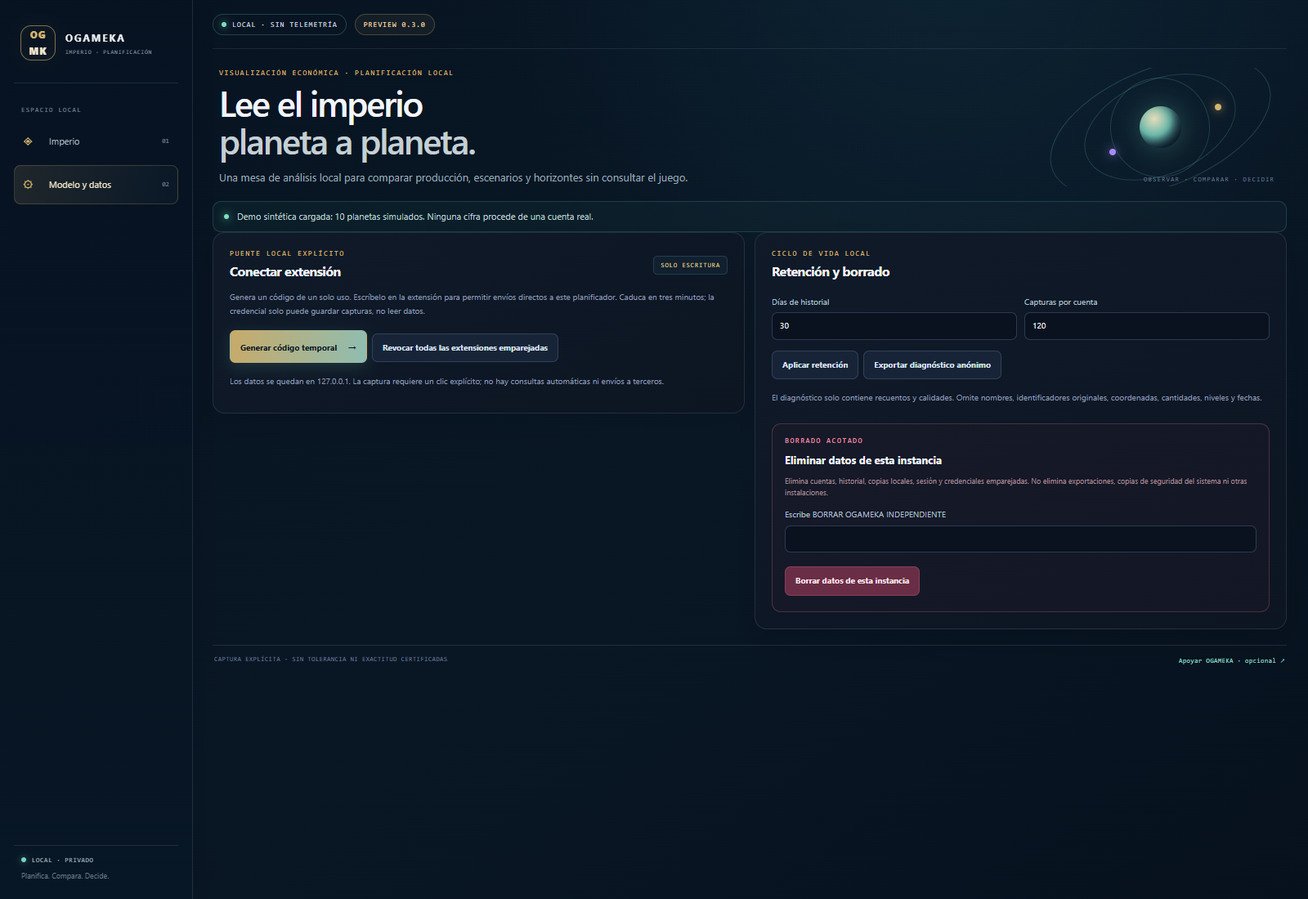
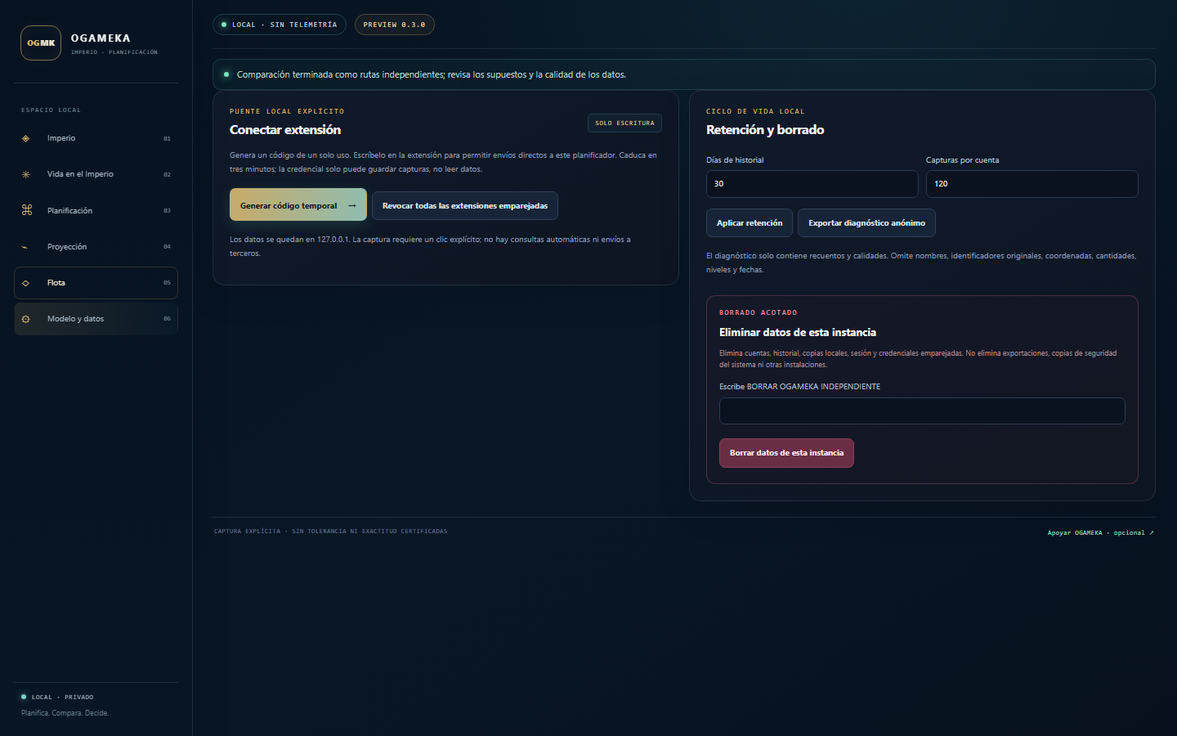
Restore TANSEI navigation and planning views

diff --git a/public/app.js b/public/app.js
@@ -34,6 +34,47 @@ function renderBodies(){
     details.textContent=facts.join(' · ')||'Sin ajustes observados';row.append(details);rows.append(row);
   }
 }
+function renderLifeforms(){
+  const rows=$('lifeforms-body');if(!rows)return;rows.replaceChildren();let count=0;
+  for(const body of selected()?.latest.bodies||[]){
+    const buildings=body.lifeformBuildings||{},research=body.lifeformResearch||{};
+    const entries=[['Edificios',buildings],['Tecnologías',research]];
+    if(!Object.keys(buildings).length&&!Object.keys(research).length)continue;count++;
+    const row=document.createElement('tr'),name=document.createElement('td'),kind=document.createElement('td');
+    name.textContent=body.name||body.id;kind.textContent=body.kind==='moon'?'Luna':'Planeta';row.append(name,kind);
+    for(const [,map]of entries){const cell=document.createElement('td'),list=document.createElement('div');list.className='level-chips';
+      for(const [id,fact]of Object.entries(map)){const chip=document.createElement('span');chip.className='level-chip';chip.textContent=`${id} · ${fact.value??'—'}`;chip.title=`${fact.quality} · ${fact.observedAt}`;list.append(chip);}cell.append(list);row.append(cell);}
+    rows.append(row);
+  }
+  $('lifeforms-empty').hidden=count>0;
+}
+function arrangePages(){
+  const controls=document.querySelector('.controls-panel'),projection=document.querySelector('.projection-panel'),events=document.querySelector('.events-panel');
+  if(controls)$('planning-content').append(controls);
+  if(controls){const goals=$('goals'),label=goals.previousElementSibling,advanced=document.createElement('details'),summary=document.createElement('summary');advanced.className='advanced-goals';summary.textContent='Editar JSON avanzado de objetivos';advanced.append(summary,label,goals);controls.insertBefore(advanced,$('analyze'));}
+  if(projection)$('projection-content').append(projection);
+  if(events)$('projection-content').append(events);
+  const projectionPanel=$('projection-content').querySelector('.projection-panel'),tableHead=projectionPanel?.querySelector('.table-heading'),bodyTable=projectionPanel?.querySelector('.scroll');
+  if(tableHead&&bodyTable){const tablePanel=document.createElement('section');tablePanel.className='panel planet-table-panel';tablePanel.append(tableHead,bodyTable);$('economy').append(tablePanel);}
+  const builder=document.createElement('section');builder.className='panel objective-matrix';builder.innerHTML='<div class="panel-heading"><div><p class="eyebrow">ASIGNACIÓN MULTIPLANETA</p><h2>Matriz de objetivos</h2></div><span class="chart-tag">HIPÓTESIS MANUALES</span></div><p>Define una mejora y asígnala a varios planetas. Compara la amortización como escenarios separados; coste, ganancia y duración son entradas manuales.</p><div class="matrix-form"><label>Identificador<input id="matrix-id" value="upgrade" maxlength="48"></label><label>Coste M / C / D<div class="triple-input"><input id="matrix-metal" type="number" min="0" value="50000"><input id="matrix-crystal" type="number" min="0" value="25000"><input id="matrix-deut" type="number" min="0" value="5000"></div></label><label>Ganancia por hora M / C / D<div class="triple-input"><input id="matrix-gmetal" type="number" min="0" value="150"><input id="matrix-gcrystal" type="number" min="0" value="90"><input id="matrix-gdeut" type="number" min="0" value="25"></div></label><label>Duración (h)<input id="matrix-duration" type="number" min="0.01" step="0.25" value="6"></label></div><div id="matrix-destinations" class="destination-grid"></div><div class="matrix-actions"><button id="matrix-add" class="button-secondary">Añadir objetivo a planetas seleccionados</button><button id="matrix-compare" class="button-secondary">Comparar amortización</button></div><p id="matrix-summary" class="matrix-summary">Elige destinos para construir la matriz.</p><div class="scroll matrix-results" hidden><table><thead><tr><th>Destino</th><th>Inversión equivalente</th><th>Finaliza en</th><th>Amortización</th><th>Ventaja al horizonte</th></tr></thead><tbody id="matrix-results-body"></tbody></table><p>Comparativa condicional. Usa los datos y supuestos visibles; no acredita un óptimo global.</p></div>';
+  $('planning-content').prepend(builder);
+  const destination=$('matrix-destinations');
+  $('matrix-add').addEventListener('click',()=>{
+    const chosen=[...destination.querySelectorAll('input:checked')].map(input=>input.value);if(!chosen.length){status('Selecciona al menos un planeta.',true);return;}
+    let goals;try{goals=JSON.parse($('goals').value||'[]');}catch{status('El JSON de objetivos contiene un error; corrígelo antes de añadir.',true);return;}
+    if(!Array.isArray(goals))throw Error('Los objetivos deben ser una lista JSON.');if(goals.length+chosen.length>60){status('El contrato admite hasta 60 objetivos por escenario.',true);return;}
+    const base=$('matrix-id').value.trim().replace(/[^a-zA-Z0-9_-]/g,'-')||'upgrade',sequence=Date.now().toString(36);
+    for(const [index,bodyId]of chosen.entries())goals.push({id:`${base}-${sequence}-${index+1}`,bodyId,cost:{metal:Number($('matrix-metal').value),crystal:Number($('matrix-crystal').value),deuterium:Number($('matrix-deut').value)},gain:{metal:Number($('matrix-gmetal').value),crystal:Number($('matrix-gcrystal').value),deuterium:Number($('matrix-gdeut').value)},durationHours:Number($('matrix-duration').value)});
+    $('goals').value=JSON.stringify(goals,null,2);$('matrix-summary').textContent=`${chosen.length} rutas añadidas · ${goals.length} objetivos en total. Revisa coste y ganancia antes de analizar.`;status('Rutas añadidas al escenario; no se envía ninguna acción al juego.');
+  });
+  $('matrix-compare').addEventListener('click',async()=>{
+    const chosen=[...destination.querySelectorAll('input:checked')].map(input=>input.value);if(!chosen.length){status('Selecciona al menos un planeta.',true);return;}if(!selected())throw Error('Carga una captura o demo antes de comparar.');
+    const results=$('matrix-results-body'),wrap=document.querySelector('.matrix-results');results.replaceChildren();wrap.hidden=false;const fmt=v=>v==null?'Fuera del horizonte':`${number(v,1)} h`,horizon=Number($('horizon').value);
+    for(const bodyId of chosen){const row=document.createElement('tr'),body=selected().latest.bodies.find(item=>item.id===bodyId);try{const answer=await api('/api/analyze',{account:selected().latest.account,goals:[{id:'compare-'+bodyId,bodyId,cost:{metal:Number($('matrix-metal').value),crystal:Number($('matrix-crystal').value),deuterium:Number($('matrix-deut').value)},gain:{metal:Number($('matrix-gmetal').value),crystal:Number($('matrix-gcrystal').value),deuterium:Number($('matrix-gdeut').value)},durationHours:Number($('matrix-duration').value)}],horizonHours:horizon,intervalHours:Number($('step').value),parallel:true,weights:[1,1.5,3]});const cells=[body?.name||bodyId,answer.status==='blocked'?`Bloqueado · ${answer.issues.length} datos pendientes`:number(answer.investment),answer.status==='blocked'?'—':fmt(answer.completionHours),answer.status==='blocked'?'—':fmt(answer.breakEvenHours),answer.status==='blocked'?'—':number(answer.samples.at(-1)?.advantage||0)];for(const value of cells){const cell=document.createElement('td');cell.textContent=value;row.append(cell);}}catch(error){const cell=document.createElement('td');cell.colSpan=5;cell.textContent=`${body?.name||bodyId} · ${error.message}`;row.append(cell);}results.append(row);}
+    status('Comparación terminada como rutas independientes; revisa los supuestos y la calidad de los datos.');
+  });
+}
+function renderDestinations(){const host=$('matrix-destinations');if(!host)return;host.replaceChildren();for(const body of selected()?.latest.bodies.filter(body=>body.kind==='planet')||[]){const label=document.createElement('label'),input=document.createElement('input'),name=document.createElement('span');input.type='checkbox';input.value=body.id;name.textContent=body.name||body.id;label.append(input,name);host.append(label);}}
 function renderPie(entries,total){
   const slices=$('pie-slices'),legend=$('pie-legend');slices.replaceChildren();legend.replaceChildren();
   if(!entries.length||total<=0){$('pie-center-value').textContent='—';$('pie-center-label').textContent='SIN DATOS';return;}
@@ -76,13 +117,13 @@ function renderPlanetVisuals(){
 async function refresh(){
   state=await api('/api/state');const previous=$('account').value;
   $('account').replaceChildren(...Object.entries(state.accounts).map(([key,entry])=>{const option=document.createElement('option');option.value=key;option.textContent=entry.latest.account.universe+' / '+entry.latest.account.player;return option;}));
-  if(state.accounts[previous])$('account').value=previous;$('days').value=state.retention.days;$('snapshots').value=state.retention.snapshots;$('pairing').hidden=true;$('workspace').hidden=false;renderBodies();renderPlanetVisuals();
+  if(state.accounts[previous])$('account').value=previous;$('days').value=state.retention.days;$('snapshots').value=state.retention.snapshots;$('pairing').hidden=true;$('workspace').hidden=false;renderBodies();renderPlanetVisuals();renderLifeforms();renderDestinations();
 }
-$('account').addEventListener('change',()=>{renderBodies();renderPlanetVisuals();});
+$('account').addEventListener('change',()=>{renderBodies();renderPlanetVisuals();renderLifeforms();renderDestinations();});
 $('chartResource').addEventListener('change',renderPlanetVisuals);
 function action(id,handler){$(id).addEventListener('click',async()=>{const button=$(id);button.disabled=true;try{await handler();}catch(error){status(error.message,true);}finally{button.disabled=false;}});}
 $('pairForm').addEventListener('submit',async event=>{event.preventDefault();try{await api('/api/pair',{code:$('pairCode').value});$('pairCode').value='';await refresh();status('Sesión local emparejada. Ningún dato se envía a OGame.');}catch(error){status(error.message,true);}});
-document.querySelectorAll('[data-page]').forEach(button=>button.addEventListener('click',()=>{document.querySelectorAll('.page').forEach(page=>page.hidden=page.id!==button.dataset.page);document.querySelectorAll('[data-page]').forEach(tab=>tab.classList.toggle('active',tab===button));}));
+document.querySelectorAll('[data-page]').forEach(button=>button.addEventListener('click',()=>{document.querySelectorAll('.page').forEach(page=>page.hidden=page.id!==button.dataset.page);document.querySelectorAll('[data-page]').forEach(tab=>tab.classList.toggle('active',tab.dataset.page===button.dataset.page));document.body.classList.toggle('subview',button.dataset.page!=='economy');}));
 action('demo',async()=>{const result=await api('/api/demo',{});await refresh();$('goals').value=JSON.stringify(result.plan.goals,null,2);status('Demo sintética cargada: '+result.plan.goals.length+' planetas simulados. Ninguna cifra procede de una cuenta real.');});
 action('extensionPairCode',async()=>{const result=await api('/api/extension/pair-code',{});$('extensionCode').textContent='Código temporal: '+result.code+' · caduca en 3 min';$('extensionCode').hidden=false;status('Código creado. Introdúcelo en la extensión y confirma la captura desde la pestaña del juego.');});
 action('revokeExtensions',async()=>{await api('/api/extension/revoke-all',{});$('extensionCode').hidden=true;status('Credenciales de extensión revocadas.');});
@@ -102,4 +143,5 @@ action('analyze',async()=>{
   const curve=makeSvg('path',{d:result.samples.map((sample,index)=>`${index?'L':'M'}${28+sample.hour/horizon*757},${230-(sample.advantage-min)/span*208}`).join(' ')});$('chart').append(curve);
   const last=result.samples.at(-1),end=makeSvg('circle',{cx:28+last.hour/horizon*757,cy:230-(last.advantage-min)/span*208,r:4,fill:'#79e4c1',stroke:'#0e1827','stroke-width':2});$('chart').append(end);$('projection-horizon').textContent=`Horizonte · ${horizon/720} ${horizon===720?'mes':'meses'}`;$('limits').textContent=result.assumptions.map(text=>assumptionLabels[text]||text).join(' ');status('Proyección estimada. No demuestra un óptimo global ni valida fórmulas de OGame.');
 });
+arrangePages();
 refresh().catch(()=>{});

diff --git a/public/index.html b/public/index.html
@@ -15,7 +15,11 @@
     <p class="tansei-nav-label">ESPACIO LOCAL</p>
     <nav class="tansei-nav" aria-label="Secciones">
       <button class="tansei-nav-link active" data-page="economy"><span class="nav-glyph">◈</span><span>Imperio</span><small>01</small></button>
-      <button class="tansei-nav-link" data-page="data"><span class="nav-glyph">⚙</span><span>Modelo y datos</span><small>02</small></button>
+      <button class="tansei-nav-link" data-page="lifeforms"><span class="nav-glyph">✳</span><span>Vida en el Imperio</span><small>02</small></button>
+      <button class="tansei-nav-link" data-page="planning"><span class="nav-glyph">⌘</span><span>Planificación</span><small>03</small></button>
+      <button class="tansei-nav-link" data-page="projection"><span class="nav-glyph">⌁</span><span>Proyección</span><small>04</small></button>
+      <button class="tansei-nav-link" data-page="fleet"><span class="nav-glyph">◇</span><span>Flota</span><small>05</small></button>
+      <button class="tansei-nav-link" data-page="data"><span class="nav-glyph">⚙</span><span>Modelo y datos</span><small>06</small></button>
     </nav>
     <div class="tansei-side-bottom"><span class="tansei-live-dot"></span>LOCAL · PRIVADO<small>Planifica. Compara. Decide.</small></div>
   </aside>
@@ -56,9 +60,7 @@
 
     <main id="workspace" hidden>
       <nav class="tabs" aria-label="Secciones">
-        <button class="tab active" data-page="economy"><span>01</span> Cartografía</button>
-        <button class="tab" data-page="data"><span>02</span> Datos y privacidad</button>
-        <span class="tabs-note">Sin acciones, alarmas ni peticiones al juego</span>
+        <span class="tabs-note">Navegación local · datos de la captura seleccionada</span>
       </nav>
 
       <section id="economy" class="page">
@@ -126,6 +128,16 @@
       <section id="data" class="page data-page" hidden>
         <section class="panel"><div class="panel-heading"><div><p class="eyebrow">PUENTE LOCAL EXPLÍCITO</p><h2>Conectar extensión</h2></div><span class="chart-tag">SOLO ESCRITURA</span></div><p>Genera un código de un solo uso. Escríbelo en la extensión para permitir envíos directos a este planificador. Caduca en tres minutos; la credencial solo puede guardar capturas, no leer datos.</p><button id="extensionPairCode" class="button-primary">Generar código temporal <span>→</span></button><p id="extensionCode" class="pair-code" hidden></p><button id="revokeExtensions" class="button-secondary">Revocar todas las extensiones emparejadas</button><p>Los datos se quedan en 127.0.0.1. La captura requiere un clic explícito; no hay consultas automáticas ni envíos a terceros.</p></section>
         <section class="panel"><div class="panel-heading"><div><p class="eyebrow">CICLO DE VIDA LOCAL</p><h2>Retención y borrado</h2></div></div><div class="controls-grid"><label>Días de historial<input id="days" type="number" min="1" max="365" value="30"></label><label>Capturas por cuenta<input id="snapshots" type="number" min="1" max="120" value="120"></label></div><button id="retention" class="button-secondary">Aplicar retención</button><button id="support" class="button-secondary">Exportar diagnóstico anónimo</button><p>El diagnóstico solo contiene recuentos y calidades. Omite nombres, identificadores originales, coordenadas, cantidades, niveles y fechas.</p><div class="danger-zone"><p class="eyebrow">BORRADO ACOTADO</p><h3>Eliminar datos de esta instancia</h3><p>Elimina cuentas, historial, copias locales, sesión y credenciales emparejadas. No elimina exportaciones, copias de seguridad del sistema ni otras instalaciones.</p><label>Escribe BORRAR OGAMEKA INDEPENDIENTE<input id="confirmation" autocomplete="off"></label><button id="wipe" class="button-danger">Borrar datos de esta instancia</button></div></section>
+      </section>
+
+      <section id="lifeforms" class="page" hidden>
+        <section class="panel"><div class="panel-heading"><div><p class="eyebrow">DESARROLLO PLANETARIO</p><h2>Vida en el Imperio</h2></div><span class="chart-tag">SOLO NIVELES OBSERVADOS</span></div><p>Edificios y tecnologías de formas de vida disponibles en la captura seleccionada. Los identificadores se muestran tal como llegan; no se inventan nombres ni niveles ausentes.</p><div class="scroll lifeform-scroll"><table><thead><tr><th>Planeta</th><th>Tipo</th><th>Edificios de formas de vida</th><th>Tecnologías de formas de vida</th></tr></thead><tbody id="lifeforms-body"></tbody></table></div><p id="lifeforms-empty" class="muted-copy">Sin niveles de formas de vida observados en esta captura.</p></section>
+      </section>
+
+      <section id="planning" class="page" hidden><div id="planning-content"></div></section>
+      <section id="projection" class="page" hidden><div id="projection-content"></div></section>
+      <section id="fleet" class="page" hidden>
+        <section class="panel"><div class="panel-heading"><div><p class="eyebrow">MÓDULO EN PREPARACIÓN</p><h2>Flota y objetivos</h2></div><span class="chart-tag">SIN DATOS DE ESPIONAJE</span></div><p>Esta edición independiente no captura informes de espionaje, flotas ni defensas. Por eso no calcula rentabilidad de ataques ni recomienda objetivos a partir de datos inventados. El módulo queda reservado para una fuente de datos autorizada y una revisión de tolerancia; no realiza consultas al juego.</p><div class="fleet-boundary"><span>01</span><div><b>Comparación segura</b><small>Requiere informes introducidos por el usuario y reglas de juego verificadas.</small></div><span>02</span><div><b>Estimación de vuelo</b><small>Sin envío de flotas, alarmas ni actividad automática.</small></div></div></section>
       </section>
     </main>
 

diff --git a/public/tansei.css b/public/tansei.css
@@ -13,3 +13,11 @@ body{background:radial-gradient(ellipse at 72% -10%,rgba(37,101,119,.18),transpa
 .app-shell{width:min(1500px,calc(100% - 286px));margin:0 24px 0 260px}.topbar{height:60px}.topbar .brand{display:none}.live-pill{border-color:rgba(116,212,193,.24)}.edition-pill{border-color:rgba(213,180,109,.28);background:rgba(213,180,109,.06);color:#e6d2a6}.intro{min-height:173px;padding:23px 15px 18px 8px}.intro h1{font-size:clamp(30px,3.1vw,43px);letter-spacing:-.045em}.intro h1 span{color:#c3d0d4}.eyebrow{color:var(--tansei-gold)}.intro-copy,.section-copy{color:#9aabb6}.intro-art{height:145px;width:280px}.orbit{border-color:rgba(116,212,193,.2)}.orbit-core{background:radial-gradient(circle at 35% 30%,#e4dbb8,#6bbbad 42%,#132a3d 76%)}.node-a{background:var(--tansei-gold);box-shadow:0 0 12px var(--tansei-gold)}.status-banner{border-color:rgba(116,212,193,.18);background:linear-gradient(100deg,rgba(24,88,77,.14),rgba(17,32,47,.5))}.pair-card,.visual-card,.panel,.metric-card{border-color:var(--tansei-border);background-color:rgba(12,27,43,.88)}.pair-card{border-radius:12px}.tabs{display:none}.page{scroll-margin-top:18px}.metric-card.accent-card{border-color:rgba(116,212,193,.31);background:linear-gradient(145deg,rgba(20,69,70,.36),rgba(12,27,43,.9))}.metric-card strong{color:#e5edf0}.button-primary{background:linear-gradient(100deg,#c8aa69,#8fbdb1);color:#091724}.button-primary:hover{filter:brightness(1.08)}.chart-tag,.simulation-flag{color:#d7c28f}.visual-card,.panel{box-shadow:0 14px 40px rgba(0,0,0,.12)}footer{border-color:var(--tansei-border)}
 @media(max-width:900px){.tansei-sidebar{width:196px;padding-inline:12px}.app-shell{width:calc(100% - 224px);margin-left:208px;margin-right:16px}.intro-art{width:210px;opacity:.7}}
 @media(max-width:700px){.tansei-sidebar{position:relative;inset:auto;width:auto;min-height:0;padding:10px 13px 0;border-right:0;border-bottom:1px solid var(--tansei-border);box-shadow:none}.tansei-brand{padding:1px 4px 10px;border-bottom:0}.tansei-mark{width:35px;height:35px;border-radius:10px}.tansei-nav-label,.tansei-side-bottom{display:none}.tansei-nav{grid-template-columns:repeat(2,minmax(0,1fr));gap:6px;padding-bottom:10px}.tansei-nav-link{padding:8px 7px;font-size:10px}.tansei-nav-link small{display:none}.app-shell{width:calc(100% - 24px);margin:0 auto}.topbar{height:48px}.intro{min-height:0;padding:21px 2px 15px}.intro h1{font-size:33px}.intro-art{right:-25px;width:155px;height:130px;opacity:.28}.page{scroll-margin-top:10px}}
+.tansei-nav{gap:4px}.tansei-nav-link{padding:9px 8px;font-size:10px}.tansei-nav-link .nav-glyph{font-size:13px}.lifeform-scroll{max-height:calc(100vh - 310px);min-height:180px}.level-chips{display:flex;flex-wrap:wrap;gap:5px;max-width:480px}.level-chip{display:inline-block;padding:3px 6px;border:1px solid rgba(116,212,193,.18);border-radius:5px;background:rgba(116,212,193,.05);color:#c5d8d7;font:9px var(--mono)}.objective-matrix{margin-bottom:12px}.matrix-form{display:grid;grid-template-columns:.7fr 1.4fr 1.4fr .7fr;gap:10px}.matrix-form label{display:grid;gap:5px;color:#b3c0d0;font-size:10px}.triple-input{display:grid;grid-template-columns:repeat(3,minmax(0,1fr));gap:4px}.triple-input input{width:100%;padding:7px 5px;font-size:9px}.destination-grid{display:flex;flex-wrap:wrap;gap:6px;margin:12px 0}.destination-grid label{display:flex;align-items:center;gap:6px;padding:6px 9px;border:1px solid var(--line);border-radius:7px;background:rgba(6,14,23,.35);color:#bdcbd5;font-size:10px}.destination-grid input{accent-color:var(--tansei-teal)}.matrix-summary{margin:10px 0 0;color:#8fa6ad;font-size:10px}.fleet-boundary{display:grid;grid-template-columns:32px 1fr 32px 1fr;gap:10px;align-items:center;margin-top:22px;padding:15px;border:1px solid var(--tansei-border);border-radius:9px;background:rgba(7,19,33,.45)}.fleet-boundary>span{color:var(--tansei-gold);font:10px var(--mono)}.fleet-boundary b,.fleet-boundary small{display:block}.fleet-boundary b{font-size:11px}.fleet-boundary small{margin-top:4px;color:#8497a5;font-size:9px}
+@media(max-width:900px){.matrix-form{grid-template-columns:1fr 1fr}.tansei-nav{gap:3px}.tansei-nav-link{grid-template-columns:18px 1fr auto;padding:8px 6px;font-size:9px}}
+@media(max-width:700px){.tansei-nav{grid-template-columns:repeat(3,minmax(0,1fr))}.tansei-nav-link{padding:8px 5px;font-size:9px}.matrix-form{grid-template-columns:1fr}.fleet-boundary{grid-template-columns:25px 1fr}.lifeform-scroll{max-height:none}}
+body.subview .intro{display:none}body.subview .status-banner{margin-top:12px}.planet-table-panel{margin-top:12px}.planet-table-panel .scroll{max-height:290px}
+.advanced-goals{margin-top:12px;border:1px solid var(--tansei-border);border-radius:8px;padding:8px 10px;background:rgba(7,19,33,.28)}.advanced-goals summary{cursor:pointer;color:#a9bbc4;font-size:10px}.advanced-goals>label{margin-top:10px!important}.advanced-goals textarea{min-height:110px}
+.matrix-actions{display:flex;flex-wrap:wrap;gap:7px}.matrix-results{max-height:220px;margin-top:10px;border-top:1px solid var(--line-soft)}.matrix-results p{margin:7px 0;color:#8497a5;font-size:9px}
+.tansei-mark{width:50px;flex:none;font-size:10px;letter-spacing:.025em;white-space:nowrap}.tansei-mark span{display:inline;color:#f2e7ce}
+.tansei-mark{display:flex;align-items:center;justify-content:center;gap:1px}

diff --git a/README.md b/README.md
@@ -1,4 +1,4 @@
-# OGAMEKA Local Planner
+# OGAMEKA Local Planner
 
 **A local-first OGame economy viewer and scenario planner.** The browser extension reads selected values from the page you opened after an explicit click, then sends the validated capture to the planner running on your computer.
 
@@ -14,11 +14,17 @@ Screenshots use the built-in synthetic scenario. They contain no player or accou
 
 ![OGAMEKA TANSEI-inspired Model and Data page, with local extension pairing, retention and deletion controls](public/screenshots/privacy-and-retention.png)
 
+![Life in the Empire view with per-planet lifeform building and research levels from synthetic data](public/screenshots/life-in-empire.png)
+
+![Multi-planet planning matrix comparing separate destination amortization routes](public/screenshots/planning-matrix.png)
+
 ## English
 
 ### What it does
 
-- Shows production shares and frequency histograms across multiple planets.
+- Shows production shares, histograms, and a per-planet production table across multiple planets.
+- Includes dedicated Empire, Life in the Empire, Planning, Projection, Fleet boundary, and Model and Data views.
+- The planning matrix can compare a manually defined objective on selected planets as separate conditional amortization routes, or add those routes to a scenario.
 - Compares small, user-defined economic scenarios over 1, 3 or 6 months and displays conditional projections and event timelines.
 - Includes a Manifest V3 browser extension with an explicit, one-click visible-page capture.
 - Sends a capture only to the local planner at `127.0.0.1:3176`, after one-time pairing and the user's click. The extension credential can upload captures; it cannot read the planner's accounts or history.
@@ -67,7 +73,9 @@ Optional support: [Ko-fi · Yahvveh](https://ko-fi.com/yahvveh). Donations do no
 
 ### Qué ofrece
 
-- Compara la producción de varios planetas con sectores e histogramas.
+- Compara la producción de varios planetas con sectores, histogramas y tabla planetaria.
+- Incluye vistas separadas de Imperio, Vida en el Imperio, Planificación, Proyección, límite de Flota y Modelo y datos.
+- La matriz compara una mejora definida manualmente en varios planetas como rutas de amortización condicionales o las añade al escenario.
 - Explora escenarios económicos definidos por el usuario en horizontes de 1, 3 o 6 meses, con proyecciones condicionadas y calendario estimado.
 - Incluye una extensión Manifest V3 que consulta los datos visibles de la página actual tras un clic explícito.
 - Envía la captura únicamente al planificador local `127.0.0.1:3176`, después de un emparejamiento de un solo uso y de pulsar **Capturar y sincronizar**. La credencial solo permite subir capturas; no permite leer cuentas ni historial.

diff --git a/HOWTO.md b/HOWTO.md
@@ -1,4 +1,4 @@
-# How to use OGAMEKA Local Planner
+# How to use OGAMEKA Local Planner
 
 This guide covers the local planner, browser extension, one-time pairing, synthetic demo, and local data controls. The extension has not been declared tolerated by Origin. Do not capture a live account unless Origin lists this exact version.
 
@@ -49,6 +49,10 @@ The code expires in three minutes. The resulting upload-only credential expires 
 ## 6. Explore without an account
 
 Choose **Cargar demo** to generate ten synthetic planets. Select a resource, horizon, sampling interval, and execution mode, then choose **Analizar hipótesis**. The demo is not a snapshot of OGame. Planning results are conditional on the displayed assumptions and do not establish a global optimum.
+
+In **Planificación**, use **Matriz de objetivos** to enter a manual cost, hourly gain and duration, then select one or more planets. **Comparar amortización** runs one local scenario per selected destination and shows the conditional investment, completion time, payback and horizon advantage. **Añadir objetivo a planetas seleccionados** adds the separate destinations to the scenario JSON; open the advanced JSON editor to inspect or edit it. The comparison uses the loaded snapshot and does not prove a globally optimal route. In **Vida en el Imperio**, lifeform levels appear only when they exist in the capture; IDs are shown as captured instead of guessed labels.
+
+The **Flota** view is an explicit boundary: this edition does not capture espionage reports, fleets or defenses, and therefore does not estimate attack profitability. Grafana is not bundled; the charts are rendered locally by this application.
 
 For a real capture, inspect source, timestamp, quality, missing fields, and production settings before relying on the charts. The adapter may be partial, and the model blocks analysis when critical fields are absent or stale.
 
